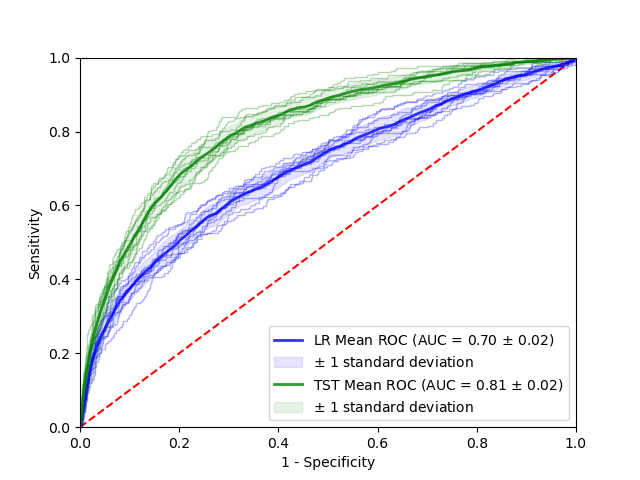
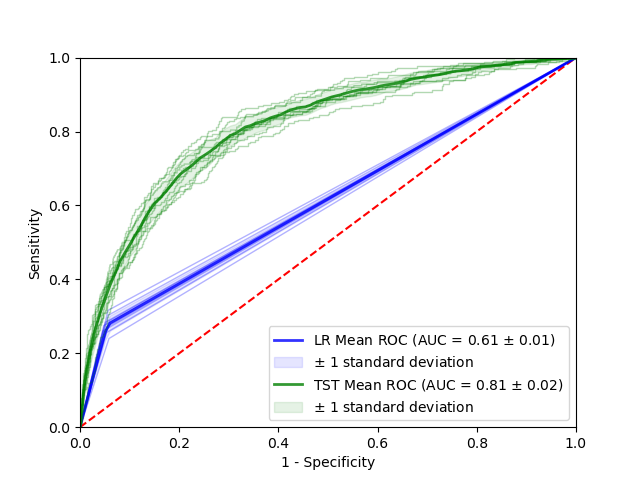
Update spearman for only top 20

Changed region(s): [[0.125, 0.125, 0.9062, 0.8438], [0.75, 0.6875, 0.875, 0.7188]]

diff --git a/src/tabsep/reporting/spearman.py b/src/tabsep/reporting/spearman.py
@@ -1,12 +1,12 @@
-from scipy.stats import spearmanr
+import numpy as np
+import pandas as pd
+import torch
+from scipy.stats import rankdata, spearmanr
+
 from tabsep import config
 from tabsep.dataProcessing.fileBasedDataset import get_feature_labels
+from tabsep.reporting import pretty_feature_names
 from tabsep.reporting.globalImportance import revise_pad
-import pandas as pd
-
-import torch
-import numpy as np
-from scipy.stats import rankdata
 
 
 # Sum over single icu stays (output (# icustays, # features))
@@ -27,24 +27,14 @@ if __name__ == "__main__":
     X_combined = X_combined[:, :, :-1]
     feature_labels = get_feature_labels()
 
-    # Crude check for static variables
-    delete_indices = list()
-    for idx, fl in enumerate(feature_labels):
-        this_feature_only_vals = X_combined[:, :, idx]
-        has_at_least_one_mask = np.logical_not(
-            np.all(this_feature_only_vals == 0.0, axis=-1)
-        )
-        assert len(has_at_least_one_mask) == X_combined.shape[0]
-        stays_with_at_least_one = this_feature_only_vals[has_at_least_one_mask]
+    # isolate only top 20 features
+    top = pd.read_csv("results/global_importances.csv")["Variable"].to_list()
+    inv_map = {v: k for k, v in pretty_feature_names.items()}
+    top_raw = [inv_map[n] if n in inv_map else n for n in top]
 
-        num_nonzero = np.sum((stays_with_at_least_one != 0.0).astype("int"), axis=1)
-        median_nonzero = np.median(num_nonzero)
+    kept_feature_indices = [feature_labels.index(n) for n in top_raw]
 
-        if median_nonzero < 2:
-            print(f"Detected static feature: {fl}")
-            delete_indices.append(idx)
-
-    att = np.delete(att, delete_indices, axis=-1)
+    att = att[:, :, kept_feature_indices]
 
     pm, early_pm, late_pm = revise_pad(pad_masks)
     early_importances = sum_attrs(att, early_pm)

diff --git a/src/tabsep/modeling/timeseriesCV.py b/src/tabsep/modeling/timeseriesCV.py
@@ -1,23 +1,24 @@
+import os
 import pickle
-from dataclasses import dataclass
 import sys
+from dataclasses import dataclass
 from typing import Callable
-import torch
+
 import numpy as np
 import pandas as pd
 import scipy.stats as st
-from tabsep.dataProcessing.fileBasedDataset import FileBasedDataset
-from tabsep.modeling import EarlyStopping
+import torch
 from sklearn.base import BaseEstimator, ClassifierMixin, TransformerMixin
+from sklearn.linear_model import LogisticRegression
+from sklearn.metrics import log_loss, make_scorer, roc_auc_score, roc_curve
+from sklearn.model_selection import StratifiedKFold, cross_val_score
 from sklearn.pipeline import make_pipeline
 from sklearn.preprocessing import StandardScaler
-from sklearn.model_selection import StratifiedKFold, cross_val_score
-from tabsep.modeling.tstImpl import TSTransformerEncoderClassiregressor, AdamW
-from sklearn.linear_model import LogisticRegression
 from xgboost import XGBClassifier
-import os
-from sklearn.metrics import roc_auc_score, log_loss, roc_curve, make_scorer
 
+from tabsep.dataProcessing.fileBasedDataset import FileBasedDataset
+from tabsep.modeling import EarlyStopping
+from tabsep.modeling.tstImpl import AdamW, TSTransformerEncoderClassiregressor
 
 CORES_AVAILABLE = len(os.sched_getaffinity(0))
 torch.manual_seed(42)
@@ -345,9 +346,7 @@ if __name__ == "__main__":
         "LR Scaled": make_pipeline(
             FeatureScaler(), Ts2TabTransformer(), LogisticRegression(max_iter=1e7)
         ),
-        "LR": make_pipeline(
-            FeatureScaler(), Ts2TabTransformer(), LogisticRegression(max_iter=1e7)
-        ),
+        "LR": make_pipeline(Ts2TabTransformer(), LogisticRegression(max_iter=1e7)),
         "XGBOOST": XGBClassifier(),
         "TST": TstWrapper(),
     }
